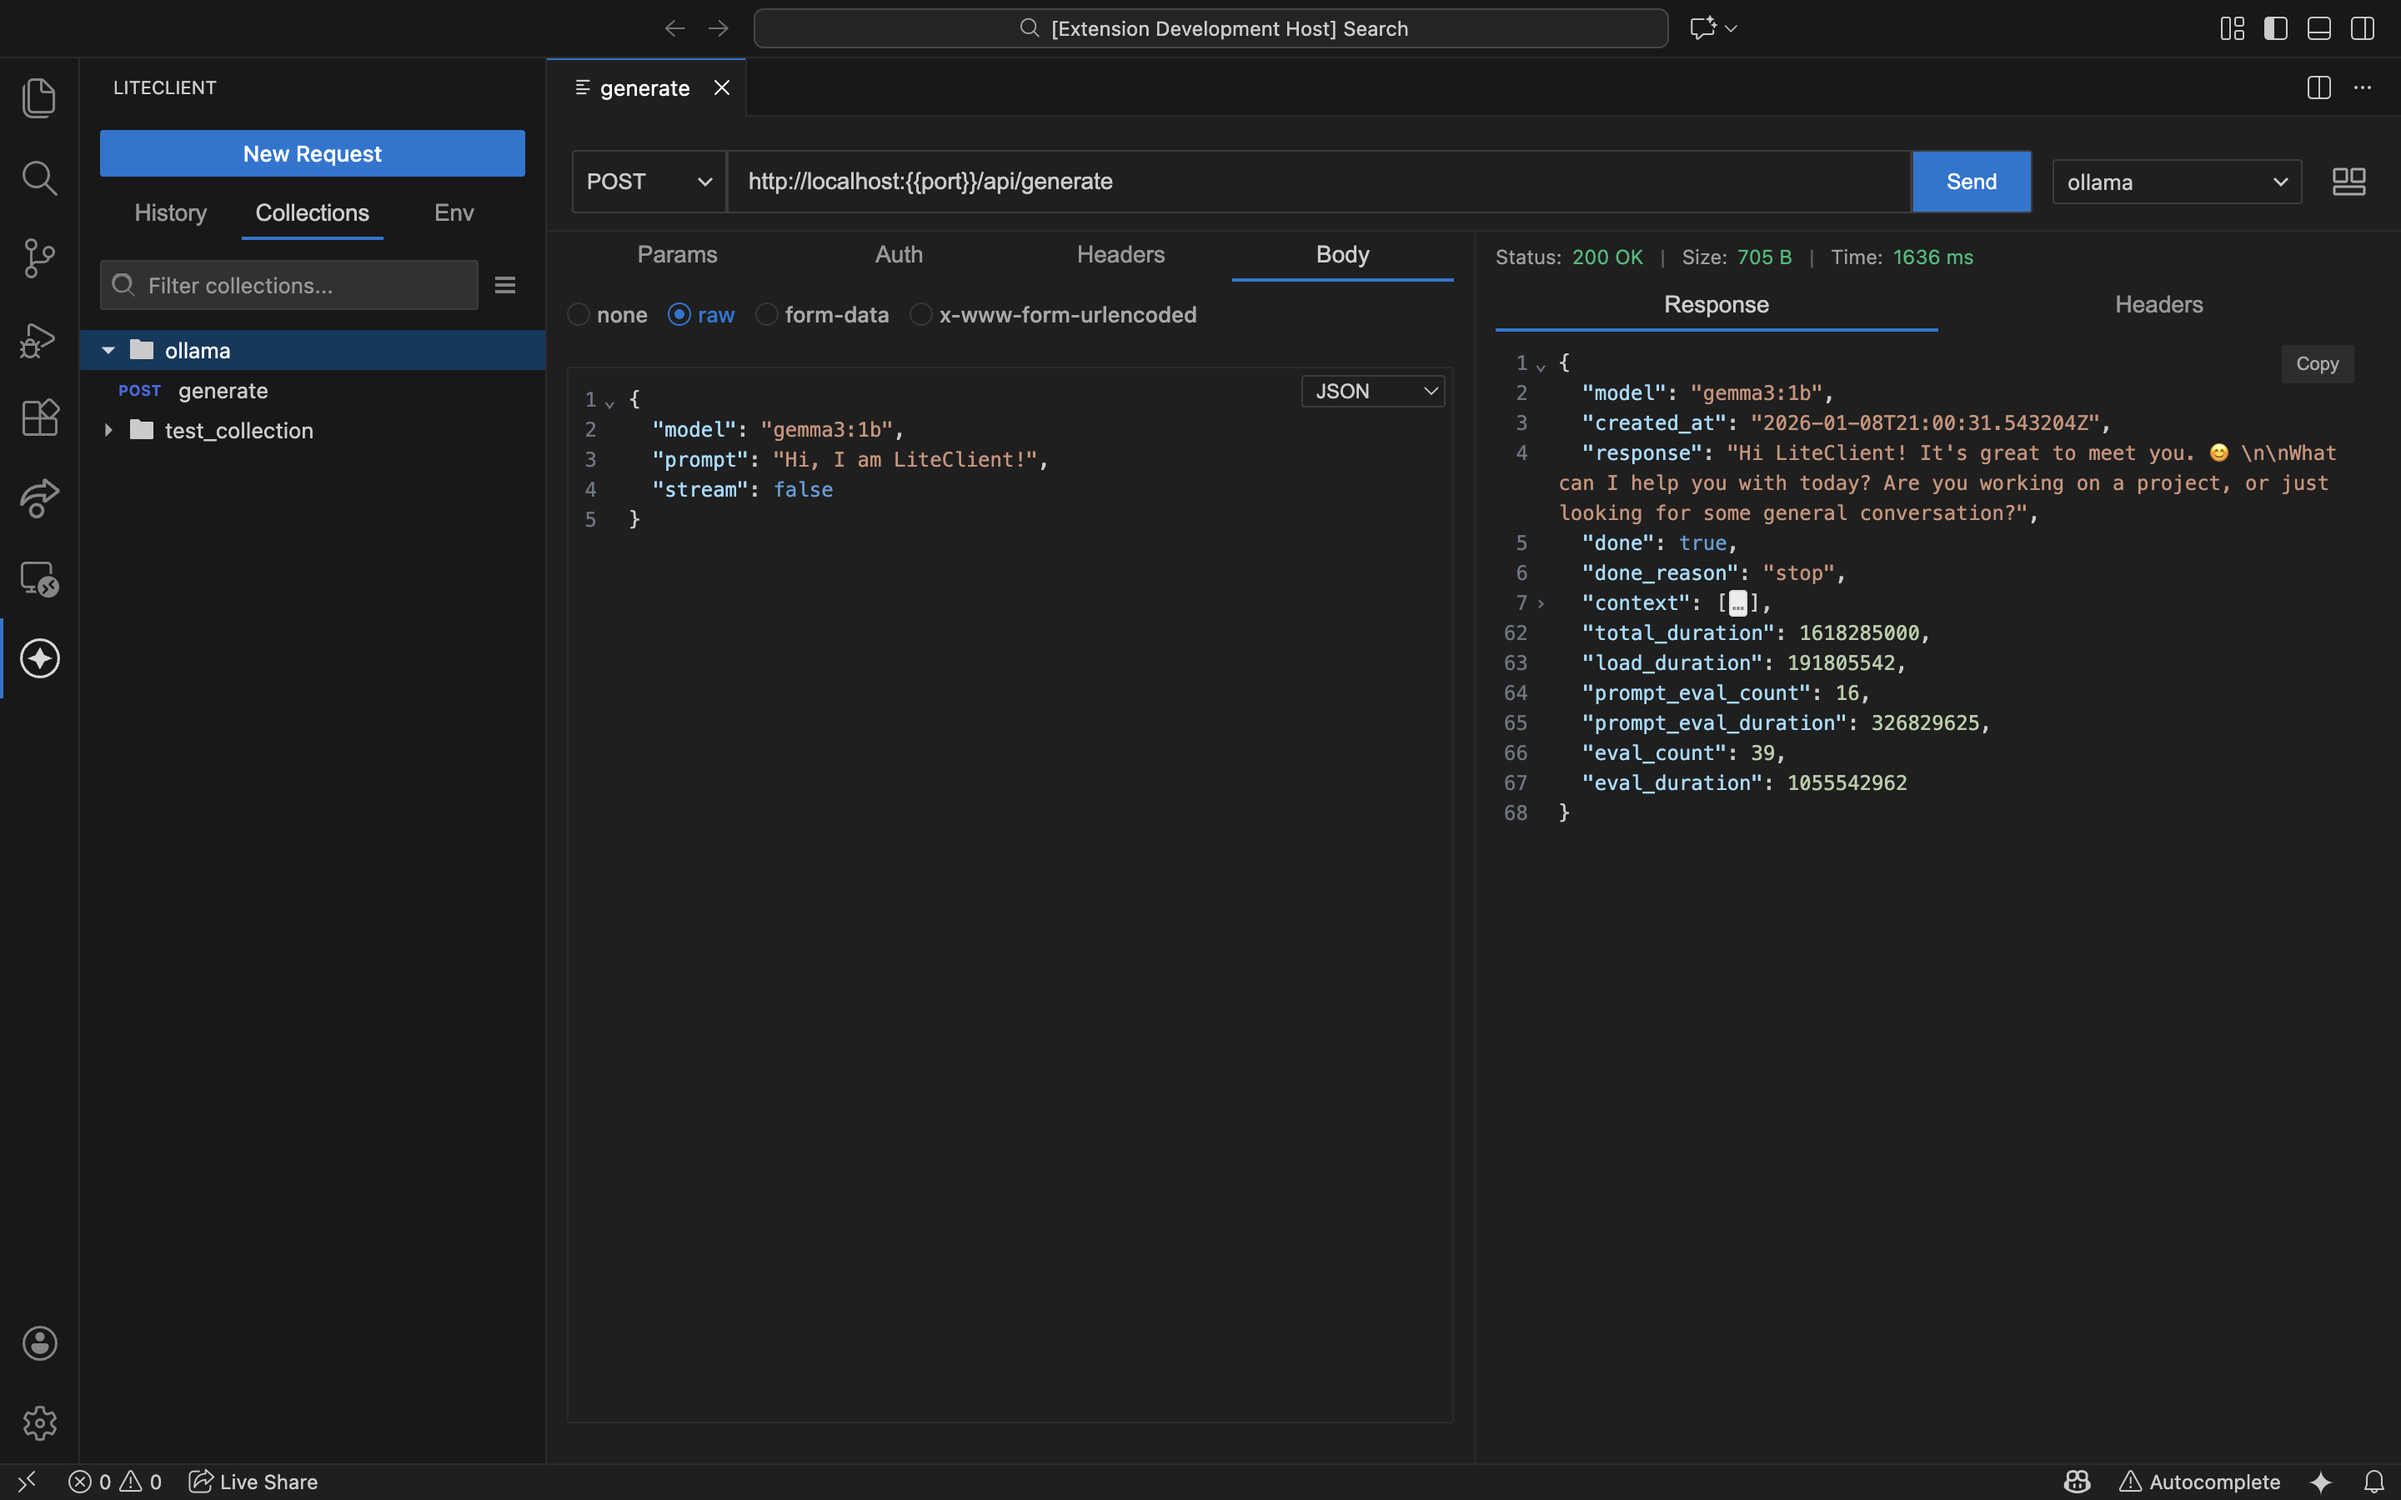
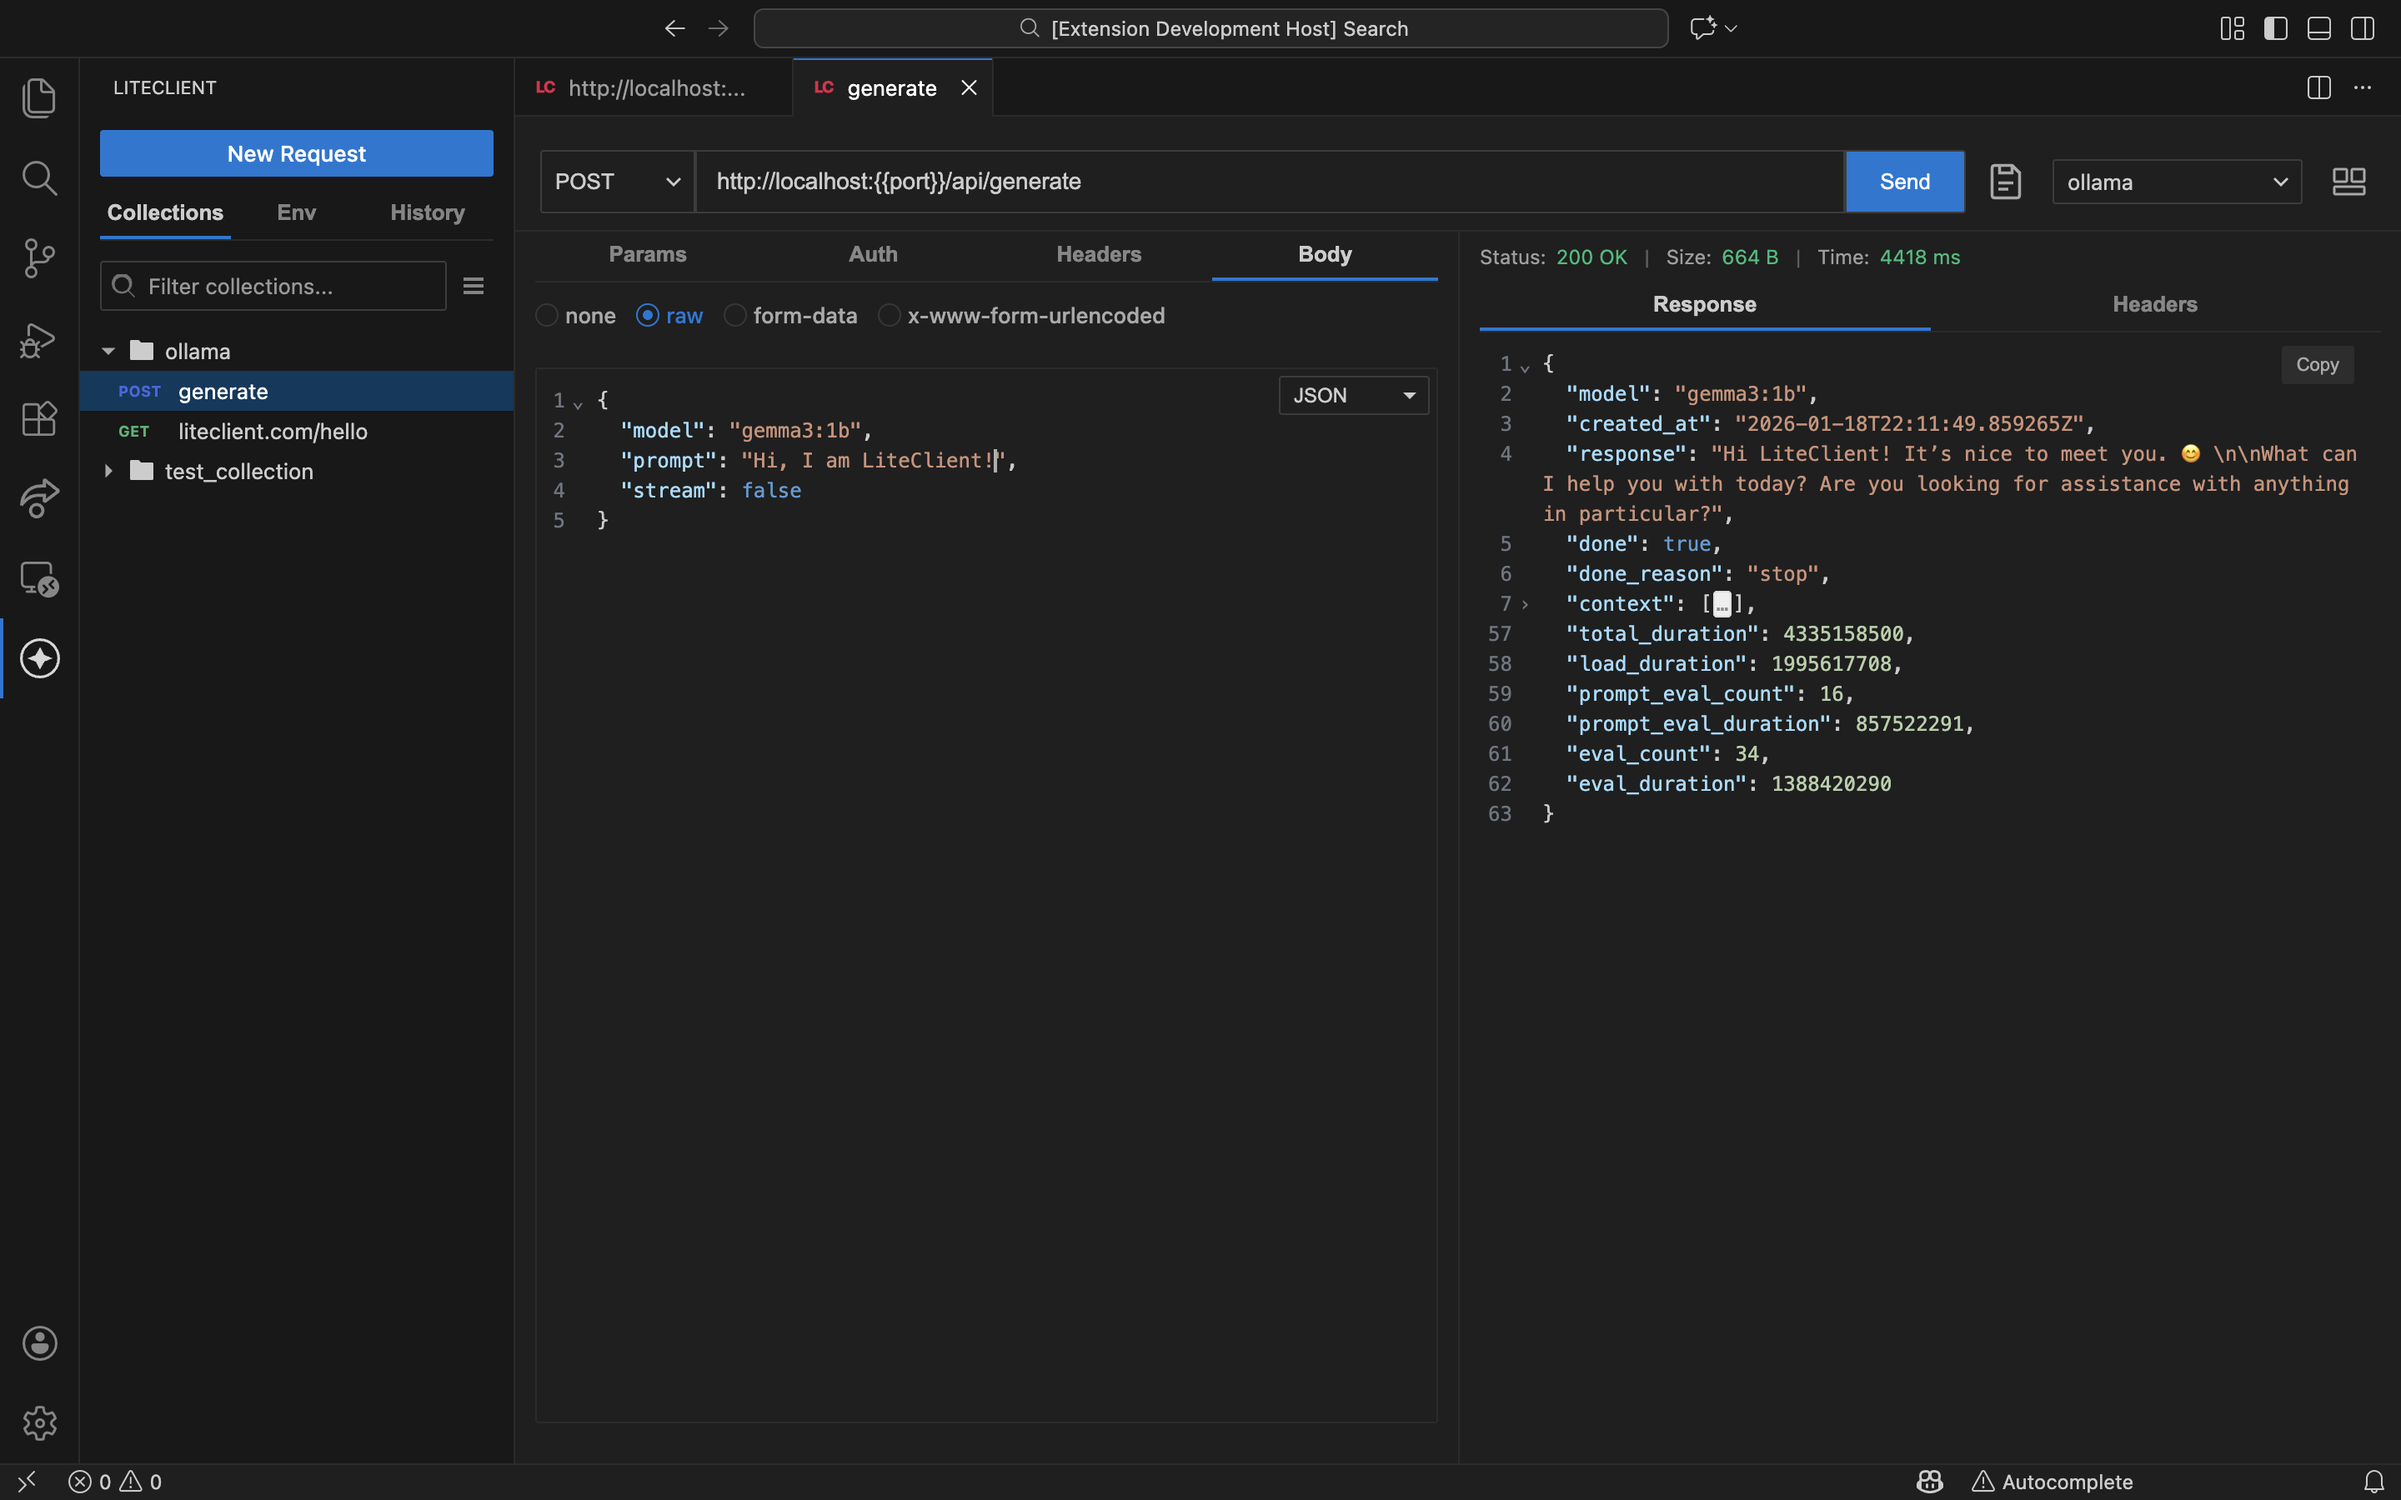
fix: critical storage corruption bug with atomic writes and recovery
- Add atomic file writes (write to temp, then rename) to prevent corruption
- Add write locking to serialize concurrent writes to same file
- Handle corrupted JSON gracefully with backup and user notification
- Pass explicit default values to readJson calls
- Update screenshot

diff --git a/src/extension/storage/storageService.ts b/src/extension/storage/storageService.ts
@@ -1,9 +1,12 @@
 import * as vscode from 'vscode';
 import * as fs from 'fs/promises';
 import * as path from 'path';
+import * as crypto from 'crypto';
+
 
 export class StorageService {
   private storagePath: string;
+  private writeLocks = new Map<string, Promise<void>>();
 
   constructor(private context: vscode.ExtensionContext) {
     this.storagePath = context.globalStorageUri.fsPath;
@@ -25,7 +28,7 @@ export class StorageService {
     }
   }
 
-  async readJson<T>(fileName: string): Promise<T> {
+  async readJson<T>(fileName: string, defaultValue?: T): Promise<T> {
     const filePath = this.getFilePath(fileName);
     
     try {
@@ -34,19 +37,66 @@ export class StorageService {
     } catch (error) {
       if ((error as NodeJS.ErrnoException).code === 'ENOENT') {
         // File doesn't exist, return default value
-        return {} as T;
+        return defaultValue ?? ({} as T);
+      }
+      if (error instanceof SyntaxError) {
+        // JSON parse error - file is corrupted
+        const backupPath = `${filePath}.backup.${Date.now()}`;
+        let backupSucceeded = false;
+
+        try {
+          await fs.rename(filePath, backupPath);
+          backupSucceeded = true;
+        } catch {
+          // Ignore backup errors
+        }
+
+        const friendlyName = fileName.replace('.json', '');
+        const message = backupSucceeded
+          ? `LiteClient: Your ${friendlyName} data file was corrupted and has been backed up. Your data may be recoverable.`
+          : `LiteClient: Your ${friendlyName} data file was corrupted and could not be read.`;
+
+        const action = backupSucceeded ? 'Open Backup File' : undefined;
+        vscode.window.showWarningMessage(message, ...(action ? [action] : [])).then(async selected => {
+          if (selected === action) {
+            const doc = await vscode.workspace.openTextDocument(backupPath);
+            await vscode.window.showTextDocument(doc);
+          }
+        });
+
+        return defaultValue ?? ({} as T);
       }
       throw error;
     }
   }
 
   async writeJson(fileName: string, data: any): Promise<void> {
+    const existingLock = this.writeLocks.get(fileName);
+    if (existingLock) {
+      await existingLock;
+    }
+
+    const writeOperation = this._writeJsonAtomic(fileName, data);
+    this.writeLocks.set(fileName, writeOperation);
+
+    try {
+      await writeOperation;
+    } finally {
+      if (this.writeLocks.get(fileName) === writeOperation) {
+        this.writeLocks.delete(fileName);
+      }
+    }
+  }
+
+  private async _writeJsonAtomic(fileName: string, data: any): Promise<void> {
     const filePath = this.getFilePath(fileName);
-    
-    // Ensure parent directory exists
+    const tempPath = `${filePath}.tmp.${crypto.randomBytes(4).toString('hex')}`;
+
     await fs.mkdir(path.dirname(filePath), { recursive: true });
-    
-    // Write the JSON data with 2-space indentation
-    await fs.writeFile(filePath, JSON.stringify(data, null, 2));
+
+    const jsonContent = JSON.stringify(data, null, 2);
+    await fs.writeFile(tempPath, jsonContent, 'utf8');
+
+    await fs.rename(tempPath, filePath);
   }
 }

diff --git a/src/extension/services/collectionService.ts b/src/extension/services/collectionService.ts
@@ -49,7 +49,7 @@ export class CollectionService {
 
   async load(): Promise<Collection[]> {
     await this.storage.ensureExists(CollectionService.COLLECTIONS_FILE, []);
-    const rawCollections = await this.storage.readJson<LegacyCollection[]>(CollectionService.COLLECTIONS_FILE);
+    const rawCollections = await this.storage.readJson<LegacyCollection[]>(CollectionService.COLLECTIONS_FILE, []);
 
     // Migration: Transform legacy requests to items
     const collections: Collection[] = rawCollections.map(c => {

diff --git a/src/extension/services/environmentService.ts b/src/extension/services/environmentService.ts
@@ -13,7 +13,7 @@ export class EnvironmentService {
 
   async load(): Promise<Environment[]> {
     await this.storage.ensureExists(EnvironmentService.ENVIRONMENTS_FILE, []);
-    const environments = await this.storage.readJson<Environment[]>(EnvironmentService.ENVIRONMENTS_FILE);
+    const environments = await this.storage.readJson<Environment[]>(EnvironmentService.ENVIRONMENTS_FILE, []);
 
     let globals = environments.find(env => env.id === 'globals');
     if (!globals) {

diff --git a/src/extension/services/historyService.ts b/src/extension/services/historyService.ts
@@ -23,7 +23,7 @@ export class HistoryService {
 
   async load(): Promise<RequestExecution[]> {
     await this.storage.ensureExists(HistoryService.HISTORY_FILE, []);
-    const rawHistory = await this.storage.readJson<any[]>(HistoryService.HISTORY_FILE);
+    const rawHistory = await this.storage.readJson<any[]>(HistoryService.HISTORY_FILE, []);
 
     if (rawHistory.length === 0) {
       return [];

diff --git a/CHANGELOG.md b/CHANGELOG.md
@@ -5,6 +5,12 @@ All notable changes to this project will be documented in this file.
 The format is based on [Keep a Changelog](https://keepachangelog.com/en/1.0.0/),
 and this project adheres to [Semantic Versioning](https://semver.org/spec/v2.0.0.html).
 
+## [0.7.3] - 2025-01-19
+
+### Fixed
+- **Critical: Collections Not Loading**: Fixed JSON parse error that prevented collections, history, and environments from loading when data files were corrupted. The extension now gracefully handles corrupted files by backing them up and starting fresh.
+- **Data Corruption Prevention**: Implemented atomic file writes with write locking to prevent race conditions that could corrupt JSON data files during rapid operations.
+
 ## [0.7.2] - 2025-01-19
 
 ### Added
